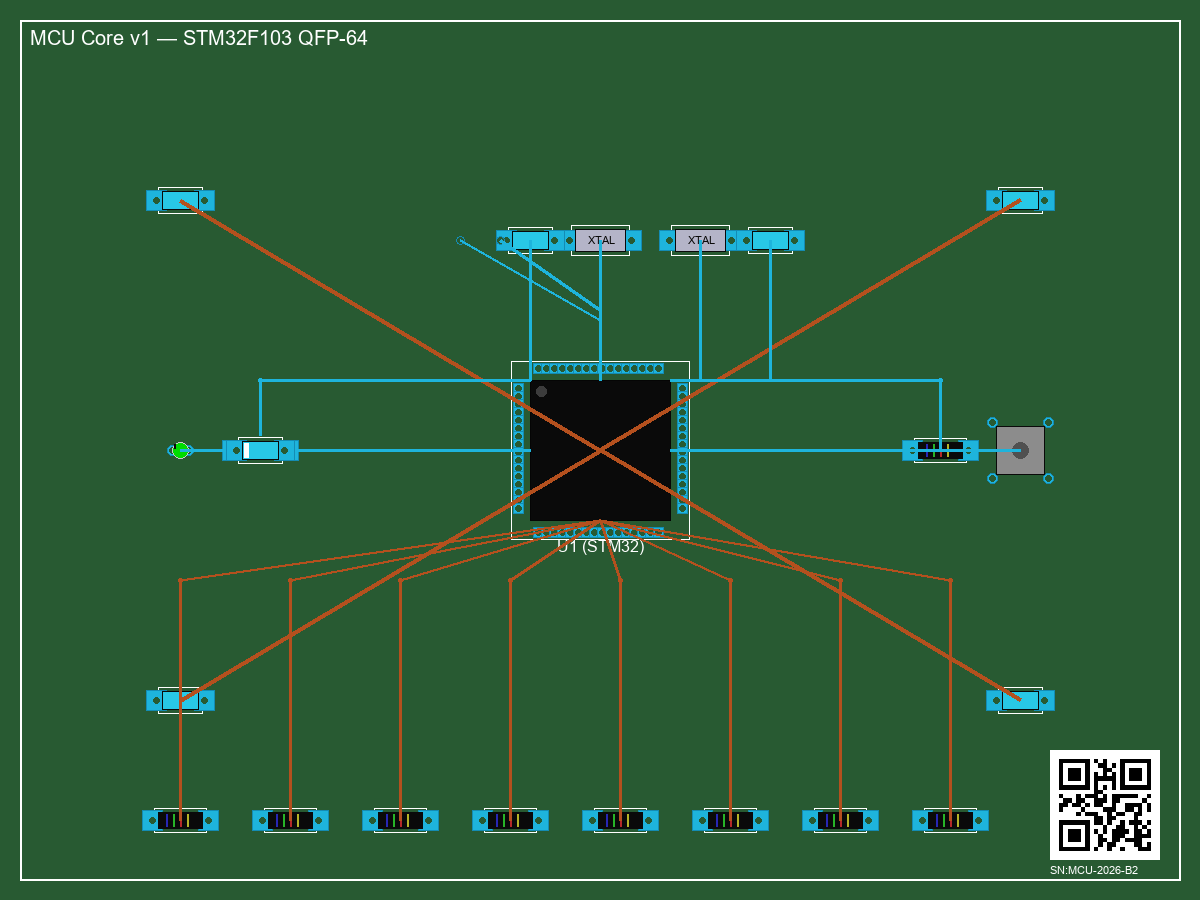
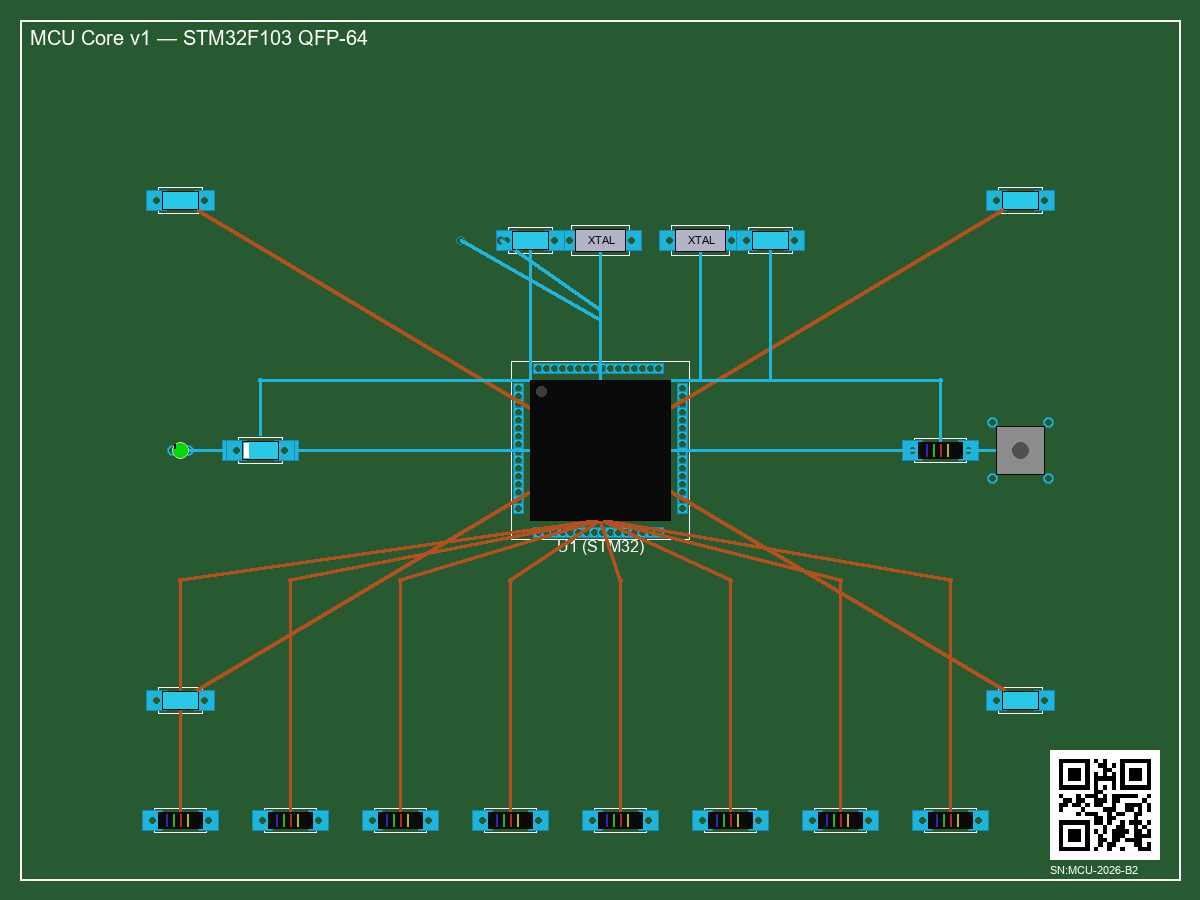
fix(W6 data): 走线不再压在元件本体上 —— signal R3 在好板上就是短路的
## 问题

gen_complex_pcb.py 先画元件、再画走线,金线直接盖在黑色本体上。
最严重的一处:signal 板 R3(720,450) 的 L516/L517 两条走线在它的
**几何中心**相接,合成一条贯穿本体的金线,把两个焊盘连成同一块连通域 ——
电阻的两个焊盘本来在不同网络上。也就是说 signal_baseline.png 被标成
好板,但图上那块 R3 已经短路了。

W7 那边早就追查到这里(pcb_defect_judge.cpp bridge 段),当时的结论是
"根因在 W6 生成器,不在判据",但一直没动数据,改用抬阈值(40→60)压住。
1x 之所以不误报,只是因为走线只有 4px 高、被 5x5 开运算抹掉了 ——
不是因为板是好的。2x(走线 8px、核只有 7x7)就顶到 100%。

## 改法(两道机制)

① 每个 draw_* 画本体时顺手 opaque() 登记不透明矩形,trace() 按 1px
   步长跳过落在里面的那段 —— 元件坐在铜之上,那一段本来就被盖住。
   几何只在 draw_* 里算一次,不抄第二份。

② 走线端点从"元件几何中心"改到"焊盘/引脚实际坐标"。①挡住的是"穿过去",
   ②保证"接得上":只做①的话走线停在本体边缘,离焊盘还差 6~16px。

## 实测(探针先在旧图上复现了文档记的 R1 71.88 / R3 100.00 才认新数)

四块板 x 5 档分辨率,bridge 最长金段 %ROI宽:

  站点    修前 1x/0.5x/0.75x/1.25x/2x          修后
  sig R1  37.50/71.88/69.39/70.37/68.75  29.69/31.25/32.65/32.10/29.69
  sig R3  29.69/84.38/100.0/100.0/100.0 29.69/31.25/32.65/32.10/29.69
  pwr R1  29.69/31.25/57.14/45.68/29.69 29.69/31.25/38.78/32.10/29.69
  pwr R2  29.69/31.25/55.10/51.85/35.16 29.69/31.25/44.90/39.51/37.50

修后所有 bridge 站点塌进 29.69~44.90 这条窄带,和从未被走线穿过的
站点(sig R2/R4、mcu R1/R2)完全重合 —— 它们已经不可区分,而本来就该一样。
好板最大 37.50 → 44.90 是不利的,但换掉的是 68.75/100.00 那些越阈值的;
阈值 60 的余量从"名义 22.5 / 实际 0"变成 **15.1 个点**。

## 没动的东西

阈值一个数都没改。9 张图的判定结果修前修后逐字相同(PASS/FAIL 与命中
类型全一致),12/12 ctest 全绿。这是这次改数据没付出重标定代价的原因 ——
也是先量的回报:上一轮"只改绘制顺序"的尝试是净变差(OK178/FA12),
因为阈值是对着带假象的图标定的;这次连着端点一起改,好板侧从源头干净了。

## 还欠着

complex 三块板**没有 insufficient 的真值图**,所以 pad_drop_pct 在
修正后的图上仍然无法重新推导(好板最大 69.51 vs 唯一真实样本 40.4,无窗口)。

diff --git a/W6_PCB_DefectProject/gen_complex_pcb.py b/W6_PCB_DefectProject/gen_complex_pcb.py
@@ -76,13 +76,77 @@ def silk(d, text, cx, cy, color=WHITE, font=FONT_S):
     d.text((cx - tw//2, cy - th//2), text, fill=color, font=font)
 
 
+# ============================================================
+# 元件本体登记表(走线要避让的东西)
+# ============================================================
+#
+# 为什么需要这个:
+#   真实 PCB 上,元件本体坐在铜层**之上**。一条走线从元件底下穿过去,
+#   从相机看到的是"看不见",不是"金线压在黑壳上"。
+#
+#   这个生成器以前是先画元件、再画走线(Power L279~L313 元件 / L315~L337
+#   走线,signal 和 mcu 同),于是走线直接盖在黑色本体上。后果不是不好看,
+#   是**基线图本身就是废的**:signal_baseline.png 上 R3(720,450) 被
+#   L516/L517 两条走线在几何中心接成一条贯穿本体的金线,两个焊盘被连成
+#   同一块 —— 电阻短路了,而这张图被标成 PASS。
+#
+#   W7 那边为了压住这个假象,把 bridge 阈值从 40 抬到 60,
+#   治标没治本;判据本身的注释(pcb_defect_judge.cpp bridge 段)记着这件事。
+#
+# 所以这里记一份"不透明矩形",由每个 draw_* 在画本体时顺手登记 ——
+# **不复写一遍几何**:本体的 w/h 只在 draw_* 里算一次,
+# 抄第二份的账这个项目已经吃过好几次(kOffColorMul、EXPECTS、lo[0] 守卫)。
+_BODIES = []
+
+
+def opaque(cx, cy, w, h):
+    """登记一个不透明本体矩形(居中 w×h)。画本体时调用。"""
+    _BODIES.append((cx - w // 2, cy - h // 2, cx + w // 2, cy + h // 2))
+
+
+def _hidden(pt):
+    x, y = int(pt[0]), int(pt[1])
+    for x0, y0, x1, y1 in _BODIES:
+        if x0 <= x <= x1 and y0 <= y <= y1:
+            return True
+    return False
+
+
 def trace(d, points, color=GOLD, width=4, layer="top"):
-    """画一条折线走线,points=[(x,y),...]"""
-    for i in range(len(points)-1):
-        d.line([points[i], points[i+1]], fill=color, width=width)
-    # 在拐点画小圆(模拟过孔)
+    """画一条折线走线,points=[(x,y),...]
+
+    落在元件本体里的那段不画 —— 本体在铜之上,那一段是被盖住的。
+    用 1px 步长切出可见段,再按原样连成折线,所以没被挡住的
+    部分渲染结果和以前逐像素一致。
+    """
+    if not _BODIES:
+        for i in range(len(points) - 1):
+            d.line([points[i], points[i + 1]], fill=color, width=width)
+    else:
+        for i in range(len(points) - 1):
+            p0, p1 = points[i], points[i + 1]
+            n = max(abs(p1[0] - p0[0]), abs(p1[1] - p0[1]))
+            if n == 0:
+                if not _hidden(p0):
+                    d.ellipse([p0[0] - 2, p0[1] - 2, p0[0] + 2, p0[1] + 2], fill=color)
+                continue
+            run = []
+            for s in range(n + 1):
+                p = (p0[0] + (p1[0] - p0[0]) * s / n,
+                     p0[1] + (p1[1] - p0[1]) * s / n)
+                if _hidden(p):
+                    if len(run) > 1:
+                        d.line(run, fill=color, width=width)
+                    run = []
+                else:
+                    run.append(p)
+            if len(run) > 1:
+                d.line(run, fill=color, width=width)
+    # 在拐点画小圆(模拟过孔)。拐点被本体盖住就同样不画 ——
+    # 焊盘上打的过孔是能看见的,黑壳底下的看不见。
     for p in points[1:-1]:
-        d.ellipse([p[0]-2, p[1]-2, p[0]+2, p[1]+2], fill=color)
+        if not _hidden(p):
+            d.ellipse([p[0] - 2, p[1] - 2, p[0] + 2, p[1] + 2], fill=color)
 
 
 def pad(d, cx, cy, size=10, color=GOLD):
@@ -108,6 +172,7 @@ def draw_resistor_small(d, cx, cy, w=44, h=16):
     pad(d, cx-w//2-6, cy)
     pad(d, cx+w//2+6, cy)
     d.rectangle([cx-w//2, cy-h//2, cx+w//2, cy+h//2], fill=BLACK)
+    opaque(cx, cy, w, h)
     for i, c in enumerate([(40,40,180),(40,180,40),(180,40,40),(180,180,40)]):
         x = cx-w//2+8 + i*(w-16)//4
         d.line([(x, cy-h//2+2),(x, cy+h//2-2)], fill=c, width=2)
@@ -120,6 +185,7 @@ def draw_cap_small(d, cx, cy, w=36, h=18, color=YELLOW, polarity=False):
     d.rectangle([cx-w//2, cy-h//2, cx+w//2, cy+h//2], fill=color, outline=BLACK)
     if polarity:
         d.rectangle([cx-w//2+2, cy-h//2+2, cx-w//2+6, cy+h//2-2], fill=WHITE)
+    opaque(cx, cy, w, h)
 
 
 def draw_cap_big(d, cx, cy, r=20, polarity=True):
@@ -128,6 +194,7 @@ def draw_cap_big(d, cx, cy, r=20, polarity=True):
     pad_round(d, cx, cy-r-6, r=8)
     pad_round(d, cx, cy+r+6, r=8)
     d.ellipse([cx-r, cy-r, cx+r, cy+r], fill=(60,60,60), outline=(5,5,5))
+    opaque(cx, cy, r * 2, r * 2)
     # 顶部十字 + 极性条
     d.line([(cx-r+4, cy),(cx+r-4, cy)], fill=(180,180,180), width=1)
     d.line([(cx, cy-r+4),(cx, cy+r-4)], fill=(180,180,180), width=1)
@@ -144,6 +211,7 @@ def draw_inductor(d, cx, cy, w=50, h=24):
     # 内部圆点模拟绕线
     for i, x in enumerate([cx-w//2+10, cx, cx+w//2-10]):
         d.ellipse([x-4, cy-4, x+4, cy+4], fill=(150,150,170))
+    opaque(cx, cy, w, h)
 
 
 def draw_diode(d, cx, cy, w=40, h=14):
@@ -156,6 +224,7 @@ def draw_diode(d, cx, cy, w=40, h=14):
     d.rectangle([cx+2, cy-h//2+2, cx+6, cy+h//2-2], fill=WHITE)
     # 二极管符号
     d.line([(cx-12, cy),(cx+12, cy)], fill=WHITE, width=1)
+    opaque(cx, cy, w, h)
 
 
 def draw_to220(d, cx, cy, label="U?"):
@@ -171,6 +240,7 @@ def draw_to220(d, cx, cy, label="U?"):
     pad(d, cx,    cy+h//2+12, size=8)
     pad(d, cx+20, cy+h//2+12, size=8)
     silk(d, label, cx, cy-h//2-12, font=FONT_S)
+    opaque(cx, cy, w, h)
 
 
 def draw_qfp64(d, cx, cy, label="U?"):
@@ -195,6 +265,7 @@ def draw_qfp64(d, cx, cy, label="U?"):
         # 下
         pad(d, cx - body//2 + pitch*(i+1), cy + body//2 + 12, size=5)
     silk(d, label, cx, cy+body//2+24, font=FONT_M)
+    opaque(cx, cy, body, body)
 
 
 def draw_soic8(d, cx, cy, label="U?"):
@@ -211,6 +282,7 @@ def draw_soic8(d, cx, cy, label="U?"):
         pad(d, cx-w//2-10, y, size=4)
         pad(d, cx+w//2+10, y, size=4)
     silk(d, label, cx, cy+h//2+14, font=FONT_S)
+    opaque(cx, cy, w, h)
 
 
 def draw_button(d, cx, cy, size=24):
@@ -221,6 +293,7 @@ def draw_button(d, cx, cy, size=24):
     pad_round(d, cx+size+4, cy-size-4, r=5)
     pad_round(d, cx-size-4, cy+size+4, r=5)
     pad_round(d, cx+size+4, cy+size+4, r=5)
+    opaque(cx, cy, size * 2, size * 2)
 
 
 def draw_led(d, cx, cy, r=8, color=ORANGE_LED):
@@ -230,6 +303,7 @@ def draw_led(d, cx, cy, r=8, color=ORANGE_LED):
     d.ellipse([cx-r, cy-r, cx+r, cy+r], fill=color, outline=(200,200,200))
     # 极性平边
     d.line([(cx-r+2, cy-r+2),(cx-r+2, cy-r+6)], fill=BLACK, width=2)
+    opaque(cx, cy, r * 2, r * 2)
 
 
 def draw_crystal(d, cx, cy, w=50, h=22):
@@ -240,6 +314,7 @@ def draw_crystal(d, cx, cy, w=50, h=22):
     d.rectangle([cx-w//2, cy-h//2, cx+w//2, cy+h//2],
                 fill=(180,180,200), outline=BLACK)
     d.text((cx-12, cy-6), "XTAL", fill=BLACK, font=FONT_XS)
+    opaque(cx, cy, w, h)
 
 
 def draw_terminal(d, cx, cy, n=3):
@@ -251,6 +326,7 @@ def draw_terminal(d, cx, cy, n=3):
         x = cx - w//2 + 8 + i*12
         d.ellipse([x-3, cy-3, x+3, cy+3], fill=(220,220,220))
         pad_round(d, x, cy+h//2+6, r=4)
+    opaque(cx, cy, w, h)
 
 
 def draw_qr(d, img, data, size=110, pos=None):
@@ -270,6 +346,7 @@ def draw_qr(d, img, data, size=110, pos=None):
 # 板 1:电源稳压板（LM2596 风格）
 # ============================================================
 def build_power_baseline():
+    _BODIES.clear()
     img = Image.new("RGB", (W, H), GREEN_PCB)
     draw_pcb_base(img, "Power Supply v1 — LM2596 Buck")
     d = ImageDraw.Draw(img)
@@ -367,6 +444,7 @@ def defect_power_missing(base, layout):
 # 板 2:MCU 最小系统（STM32 QFP-64 风格）
 # ============================================================
 def build_mcu_baseline():
+    _BODIES.clear()
     img = Image.new("RGB", (W, H), GREEN_PCB)
     draw_pcb_base(img, "MCU Core v1 — STM32F103 QFP-64")
     d = ImageDraw.Draw(img)
@@ -465,6 +543,7 @@ def defect_mcu_bridge(base, layout):
 # 板 3:双运放信号链
 # ============================================================
 def build_signal_baseline():
+    _BODIES.clear()
     img = Image.new("RGB", (W, H), GREEN_PCB)
     draw_pcb_base(img, "Signal Chain v1 — Dual Op-Amp Filter")
     d = ImageDraw.Draw(img)
@@ -509,14 +588,22 @@ def build_signal_baseline():
 
     # === 走线 ===
     # 信号链:J1 → R1 → C1 → U1.in → ... → U2.out → J2
-    trace(d, [(80, 438), (220, 438), (220, 450)], width=4)
-    trace(d, [(220, 462), (340, 462), (340, 450)], width=4)
-    trace(d, [(340, 450), (480, 450)], width=4)
-    trace(d, [(480, 450), (620, 450)], width=4)
-    trace(d, [(620, 450), (720, 450)], width=4)
-    trace(d, [(720, 450), (860, 450)], width=4)
-    trace(d, [(860, 450), (1020, 450)], width=4)
-    trace(d, [(1020, 450), (1140, 450)], width=4)
+    #
+    # 端点一律落在**焊盘**上,不走元件几何中心(以前的写法)。
+    # 走线焊点坐标就是各 draw_* 里 pad()/引脚的实际位置:
+    #   RES w=44      → 焊盘 cx±28      CAP_SMALL w=36 → 焊盘 cx±24
+    #   SOIC8 w=80    → 引脚 cx±50,y=cy-17/-9/-1/+7
+    #   TERMINAL n=2  → 本体在 cx±16,接线柱在本体下沿
+    # 端点落在中心的后果不是"接线画得丑",是金线压在黑色本体上 ——
+    # 见文件头 _BODIES 那段,实测 R3 会因此在好板上就短路。
+    trace(d, [(96, 450), (192, 450)], width=4)      # J1 右沿 → R1 左焊盘
+    trace(d, [(248, 450), (316, 450)], width=4)     # R1 右焊盘 → C1 左焊盘
+    trace(d, [(364, 450), (430, 449)], width=4)     # C1 右焊盘 → U1 左脚
+    trace(d, [(530, 449), (596, 450)], width=4)     # U1 右脚 → C3 左焊盘
+    trace(d, [(644, 450), (692, 450)], width=4)     # C3 右焊盘 → R3 左焊盘
+    trace(d, [(748, 450), (810, 449)], width=4)     # R3 右焊盘 → U2 左脚
+    trace(d, [(910, 449), (996, 450)], width=4)     # U2 右脚 → C4 左焊盘
+    trace(d, [(1044, 450), (1124, 450)], width=4)   # C4 右焊盘 → J2 左沿
 
     # 反馈 (顶层)
     trace(d, [(480, 350), (480, 425)], width=3)

diff --git a/W7_VisionMasterLite/operators/pcb_defect_judge.cpp b/W7_VisionMasterLite/operators/pcb_defect_judge.cpp
@@ -241,6 +241,23 @@ QJsonObject PcbDefectJudge::defaultParams() const {
     //
     // ⚠ 60 修不了 signal R1/R3 的问题,那不是阈值的事 —— 见下面
     //   "走线穿过 ROI"那段注释。
+    //
+    // ── 2026-10-14:源头修完,好板一侧的最大值变了 ──
+    //   W6 生成器原来先画元件再画走线,金线直接压在黑色本体上,
+    //   signal R3 因此在**好板**上两个焊盘就被连成一块(见下面那段)。
+    //   现在走线按本体登记避让、端点落在焊盘上,重测四块板 ×5 档分辨率:
+    //
+    //       好板最大值   44.90   power R2 @0.75x
+    //                  38.78   signal R2/R4、power R1、mcu R1/R2 @0.75x
+    //                  29.69   多数站点 @1x 与 @2x
+    //       坏板最小值   91.43   mcu Y1(mcu_bridge.png)  ← 没变,缺陷是真缺陷
+    //
+    //   修之前 signal R1 在 0.5x~2x 是 68.75~70.37、R3 是 84.38~100.00,
+    //   **两档直接越阈值**;修之后全板所有 bridge 站点都塌回 29.69~38.78
+    //   这条窄带里,和从未被走线穿过的站点完全一样。
+    //
+    //   60 现在有 **15.1 个点**余量(44.90 → 60),不是原来名义上的 22.5。
+    //   阈值本身没动过 —— 动的是数据,好板一侧不再被假象撑着。
     p["bridge_min_pct"]  = 60.0;
     // R2 质心横向偏移容差,占 ROI 宽:缺陷图实测 15.8%,取 8(约 2 倍余量)。
     p["shift_x_pct"]     = 8.0;
@@ -632,6 +649,11 @@ QJsonObject PcbDefectJudge::run(const QJsonObject& params, const QJsonObject& in
         //           R3     29.69   84.38  100.00  100.00  100.00   ← 走线穿过
         //           R4     29.69   31.25   38.78   30.86   29.69   ← 没穿过
         //
+        //   ⚠ 这是**修图之前**的历史数据,W6 生成器修好之后不再成立
+        //     (2026-10-14,见本段末尾"已修"那截)。留着是因为它就是
+        //     这条结构性限制的证据本身:表里 R1/R3 和 R2/R4 的差别
+        //     全在"走线穿没穿过"这一个变量上,别的什么都没变。
+        //
         //   R2/R4 完美缩放(1x 的 19px → 0.5x 的 10px,正好一半),
         //   R1/R3 完全不缩放,到 2.0x 直接顶到 100% —— 整行都是走线。
         //   **好板的值和真焊桥(100)完全重合,任何阈值都分不开。**
@@ -678,6 +700,39 @@ QJsonObject PcbDefectJudge::run(const QJsonObject& params, const QJsonObject& in
         //   正确的修法是改 W6 生成器:走线应该停在焊盘边缘(而不是
         //   穿到元件中心)。这是**改测试数据**,得先说清楚再做 ——
         //   改完 9 张图全部要重量一遍。
+        //
+        // ── 2026-10-14:这个修法做完了,上面那段从"根因分析"变成"已修" ──
+        //   W6 生成器现在有两道机制:
+        //     ① 每个 draw_* 在画本体时顺手 opaque() 登记不透明矩形,
+        //        trace() 按 1px 步长把落在本体里的那段跳过 —— 元件坐在
+        //        铜之上,那一段本来就是被盖住的,不是断的。
+        //     ② 走线端点从"元件几何中心"改到"焊盘/引脚实际坐标"。
+        //        ① 挡住的是"穿过去",② 保证"接得上":只做①的话走线会停在
+        //        本体边缘,离焊盘还差 6~16px。
+        //
+        //   重测之前,探针先在**旧图**上复现了本文档记的那组数
+        //   (R1 71.88 / R3 100.00)才认新数 —— 量具没校准就出的表不算数。
+        //   四块板 x 5 档分辨率:
+        //
+        //       站点    修前 1x/0.5x/0.75x/1.25x/2x           修后
+        //       sig R1  37.50/71.88/69.39/70.37/68.75   29.69/31.25/32.65/32.10/29.69
+        //       sig R3  29.69/84.38/100.0/100.0/100.0  29.69/31.25/32.65/32.10/29.69
+        //       pwr R1  29.69/31.25/57.14/45.68/29.69  29.69/31.25/38.78/32.10/29.69
+        //       pwr R2  29.69/31.25/55.10/51.85/35.16  29.69/31.25/44.90/39.51/37.50
+        //
+        //   **修后所有 bridge 站点都塌进 29.69~44.90 这条窄带**,和"从未被
+        //   走线穿过"的站点(sig R2/R4、mcu R1/R2)完全重合 —— 也就是说这些
+        //   站点已经和别的站点**不可区分**了,而它们本来就该一样。
+        //   阈值 60 现在有 15.1 个点余量。
+        //
+        //   阈值一个数都没动。动的是数据:原来好板一侧的 68.75 / 100.00
+        //   是假象撑起来的,不是板上真有那么多金。9 张图的判定结果修前
+        //   修后逐字相同(PASS/FAIL 与命中类型都没变),12/12 ctest 全绿。
+        //
+        //   ⚠ 本条的**结构性适用范围依然成立**:判据量的是"ROI 里最长一行
+        //   的金像素数",所以只对"ROI 里没有走线横穿"的元件成立。现在 W6
+        //   三块板的走线都不再横穿,所以成立;换一块新板,只要有一根走线从
+        //   ROI 里穿过去,这段注释就得重新读一遍。
         // ============================================================
         if (rules.contains(QString::fromUtf8(recipe_rule::kBridge))) {
             cv::Mat roiMask = goldMask(roi);
